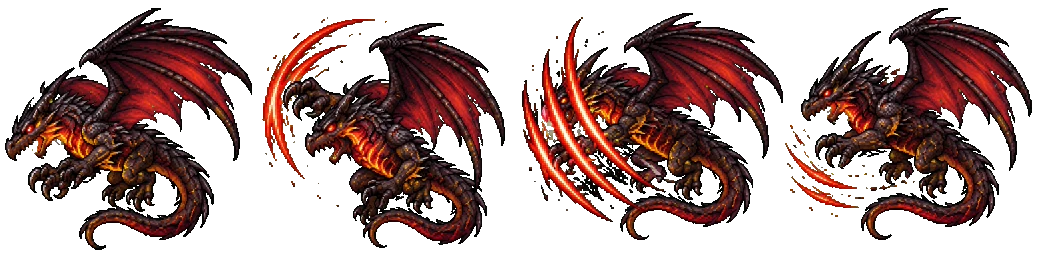
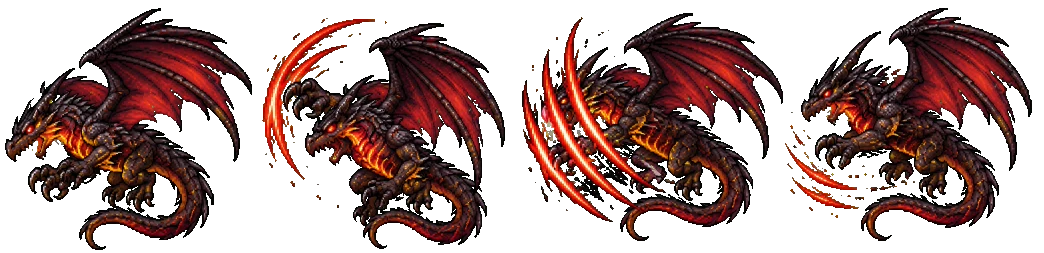
fix(v2cap): 黒龍ヴァルゼノクの待機の体の揺れを止めて力強い羽ばたきに（脚と尾で各コマをそろえる・振り下ろしは短く上げきりと下ろしきりは長く）・ボス戦のHPバーの高さをそろえて自分の絵を小さく・絵の道具を8コマ（4列×2段）と技の絵の大きさ合わせに対応（ユーザー指示「羽動かすときに体も揺れすぎ、ゴムみたいになってる」「画像がずれてる、HPバー合わせて」「プレイヤー側の画像はもう少し小さくていい」→選んだこと：エフェクトはChatGPTで別に・飛ぶ絵＋当たる絵・竜は効果なしで描き直す・待機は翼だけ・待機も技も8コマ・プロンプトは制作帳・SQL不要）

diff --git a/src/v2cap/lib/bossArt.js b/src/v2cap/lib/bossArt.js
@@ -6,48 +6,71 @@
 //   ＋技の案「この技の案で絵を作り始める」（黒爪・焦熱の吐息・黒翼烈風・終焉の黒焔）→ ユーザーが ChatGPT で作って置いた。
 //   元の絵（ユーザーが置く・git に入れない）：public/エネミー/IDダンジョン/<フォルダ>/
 //     イラスト.png … 遭遇のイラスト（透明な背景）
-//     待機.png     … 3列×2段の6コマ・ずっと羽ばたく（⑥のあと①へつながる）・真緑の背景・左向き
-//     <技の名前>.png … 3列×2段の6コマ（①待機 → ②〜⑤技 → ⑥待機）・攻撃は左へ
+//     待機.png     … 2段に並べたコマ・ずっと羽ばたく（最後のあと①へつながる）・真緑の背景・左向き
+//     <技の名前>.png … 2段に並べたコマ（①待機 → 技 → 最後は待機に戻る）・攻撃は左へ
+//     ★コマの数：はじめは3列×2段の6コマ。2026-10-28 ユーザー「もっと滑らかに動いてほしい」→選んだ「待機も技も8コマ」＝4列×2段。
+//       道具は列の数を絵から数える（6コマでも8コマでも読める）
 //   画面で使う版（tools/v2cap-boss-art.mjs が作る）：public/v2cap-art/boss/<key>-<動き>.webp
-//     idle  … 待機の6コマをくり返す動くWebP（<img> だけで羽ばたく）。大きさ base×base
-//     <技>  … ②〜⑤のコマを横に並べた1枚（クラスの攻撃の絵と同じ形・lib/motionArt.js）。
+//     idle  … 待機のコマをくり返す動くWebP（<img> だけで羽ばたく）。大きさ base×base。1コマの長さはコマごと（idleMs）
+//     <技>  … 最初と最後を除いたコマ（6コマなら②〜⑤・8コマなら②〜⑦）を横に並べた1枚（クラスの攻撃の絵と同じ形・lib/motionArt.js）。
 //              ox・oy は待機の枠の左上が1コマの中のどこにあるか（はみ出す炎や爆発のぶん）
 //     illust … 遭遇のイラスト（正方形）
 //   一覧（コマの数・大きさ・速さ）は bossArtList.js（道具が書く・手で直さない）
-// ★コマの位置は元の絵のマス（512×512）の中の位置のまま使う＝ChatGPT がどのマスにも同じ位置に描いていて、
-//   羽ばたきに合わせた上下の揺れもそのまま残る（2026-10-28 6枚で測った：どのマスも体は x20〜515・y5〜495）
+// ★コマの位置は元の絵のマスの中の位置で使う。待機は体の動かない場所（idleAnchor）で①にそろえる
+//   （2026-10-28 ユーザー「羽動かすときに体も揺れすぎ、ゴムみたいになってる」）。技の絵は①の竜の大きさと位置を待機の①に合わせる
+//   （1枚ずつ別に作るので、竜の大きさや位置が少しずつ違う）
 // ============================================================
 import { BOSS_ART } from './bossArtList.js'
 
 export const BOSS_ART_SRC_DIR = 'IDダンジョン'   // public/エネミー の下（ENEMY_ART_SRC_DIR）・元の絵。敵の絵の道具はここを読まない
 export const BOSS_ART_DIR = '/v2cap-art/boss'
-export const BOSS_SHEET_COLS = 3
+export const BOSS_SHEET_COLS = [3, 4]   // 3列（6コマ）か4列（8コマ）
 export const BOSS_SHEET_ROWS = 2
 export const BOSS_ILLUST_SIZE = 768
 
 // ボスごとの決まり。dir＝元の絵のフォルダ（ユーザーが付けた名前）
-//   motions … 技の元の絵の名前 → キー・1コマの長さ（②〜⑤・ミリ秒）。当たるのはどれも④（3つ目のコマ）
+//   idleMs  … 待機のコマの数 → 1コマずつの長さ（ミリ秒）
+//   motions … 技の元の絵の名前 → キー・流すコマの数 → 1コマずつの長さ（ミリ秒）。当たるコマは BOSS_HIT_OF
 export const BOSS_DEFS = {
   varuzenoku: {
     name: '黒龍ヴァルゼノク', dir: 'ヴォルザノク',
-    idleMs: 130,
+    // 【確定】2026-10-28 ユーザー「体も揺れすぎ、ゴムみたい」「今よりもう少し力強く羽ばたいてほしい」：
+    //   振り下ろすコマは短く（ぐっと叩きつける）、上げきり・下ろしきりは少し長く見せる（1回約0.8〜0.9秒・前は130ミリ秒ずつ）
+    //   6コマ＝①上げきり ②③振り下ろし ④下ろしきり ⑤⑥振り上げ／8コマ＝①上げきり ②③④振り下ろし ⑤下ろしきり ⑥⑦⑧振り上げ
+    idleMs: { 6: [200, 90, 90, 170, 130, 130], 8: [200, 70, 70, 80, 170, 110, 110, 110] },
+    // 待機のコマをそろえる、体の動かない場所（マスの中の割合）＝脚と尾（翼は上と右・頭は羽ばたきで上下する）
+    idleAnchor: { x0: 0, x1: 0.7, y0: 0.55, y1: 1 },
     noGreen: true,   // 緑の無い竜。背景の緑が映り込んだ煙・風を緑の無い色にする（2026-10-28 黒翼烈風・終焉の黒焔の煙が緑がかっていた）
     motions: [
-      { file: '黒爪', key: 'claw', ms: [110, 110, 200, 140] },
-      { file: '焦熱の吐息', key: 'breath', ms: [160, 200, 320, 220] },
-      { file: '黒翼烈風', key: 'gale', ms: [150, 180, 300, 220] },
-      { file: '終焉の黒焔', key: 'doom', ms: [220, 320, 420, 320] },
+      // 8コマの流れ（制作帳のプロンプト）：②③振りかぶる・ためる → ④振り下ろし途中 → ⑤いちばん前（当たる・撃ち出す）→ ⑥余韻 → ⑦戻る
+      { file: '黒爪', key: 'claw', ms: { 4: [110, 110, 200, 140], 6: [100, 100, 60, 160, 120, 100] } },
+      { file: '焦熱の吐息', key: 'breath', ms: { 4: [160, 200, 320, 220], 6: [150, 200, 90, 200, 200, 120] } },
+      { file: '黒翼烈風', key: 'gale', ms: { 4: [150, 180, 300, 220], 6: [140, 200, 70, 180, 160, 120] } },
+      { file: '終焉の黒焔', key: 'doom', ms: { 4: [220, 320, 420, 320], 6: [200, 240, 320, 120, 240, 160] } },
+    ],
+    // エフェクト（2026-10-28 ユーザー「エフェクトは別に作って、しっかり敵（プレイヤー）に当たってるように見せたい」→選んだ
+    //   「ChatGPT のドット絵」「飛ぶ絵＋当たる絵」）。3列×2段の6コマ。飛ぶ＝同じ場所でゆらめくくり返し（画面で相手まで動かす）・
+    //   当たる＝相手の上で1回。★画面に入れるのは絵が届いてから（いまは名前だけ＝道具が「使わない絵」と言わないため）
+    effects: [
+      { file: '黒爪_当たる', motion: 'claw', kind: 'hit' },
+      { file: '焦熱の吐息_飛ぶ', motion: 'breath', kind: 'fly' },
+      { file: '焦熱の吐息_当たる', motion: 'breath', kind: 'hit' },
+      { file: '黒翼烈風_飛ぶ', motion: 'gale', kind: 'fly' },
+      { file: '黒翼烈風_当たる', motion: 'gale', kind: 'hit' },
+      { file: '終焉の黒焔_飛ぶ', motion: 'doom', kind: 'fly' },
+      { file: '終焉の黒焔_当たる', motion: 'doom', kind: 'hit' },
     ],
   },
 }
-export const BOSS_HIT_FRAME = 2
+// 当たる（撃ち出す）コマ（流すコマの中で0から）。6コマの絵は④＝2・8コマの絵は⑤＝3
+export const BOSS_HIT_OF = { 4: 2, 6: 3 }
 export const bossKeyOfName = (name) => Object.keys(BOSS_DEFS).find(k => BOSS_DEFS[k].name === name) || null
 
 export const bossFileOf = (key, kind) => `${key}-${kind}.webp`
 export const bossSrcOf = (key, kind) => `${BOSS_ART_DIR}/${bossFileOf(key, kind)}`
 
 // 画面で使う形（無ければ null）
-//   { name, base, idle:{ src, frames, ms }, illust, motions:{ <key>: lib/motionArt.js の motionOf と同じ形＋label } }
+//   { name, base, idle:{ src, frames, ms:[…] }, illust, motions:{ <key>: lib/motionArt.js の motionOf と同じ形＋label } }
 export const bossArtOf = (key) => {
   const def = BOSS_DEFS[key], art = BOSS_ART[key]
   if (!def || !art?.idle) return null

diff --git a/src/v2cap/components/V2capAtbStage.jsx b/src/v2cap/components/V2capAtbStage.jsx
@@ -16,6 +16,8 @@ import { motionFrameAt, IDLE_SIZE } from '../lib/motionArt.js'
 //     待機GIFと同じ大きさ・足の位置にそろえてあるので、待機の枠（正方形）に重ねて、はみ出すぶん（斬撃）は枠の外へ出す
 //   ・ダンジョンのボス（lib/bossArt.js・2026-10-28 黒龍ヴァルゼノク）：待機はずっと羽ばたく動くWebP、技ごとに違う攻撃の絵。
 //     どの絵を流すかは act に付けた motion（試し撃ちの画面が決める）。絵が大きいので枠も大きくする（big）
+//     【確定】2026-10-28 ユーザー「画像がずれてる、HPバー合わせて」「プレイヤー側の画像はもう少し小さくていい」：
+//     ボスのときは両方の絵の枠を同じ高さにして（HPバーが同じ高さに並ぶ）、自分の絵は枠の PLAYER_VS_BOSS 倍に縮めて下にそろえる
 // ============================================================
 
 const Bar = ({ pct, color, h = 10 }) => (
@@ -46,11 +48,15 @@ const Chips = ({ st, side, right }) => {
   )
 }
 
+const ART_H = 'clamp(110px, 30vw, 170px)'
+const ART_H_BIG = 'clamp(140px, 40vw, 230px)'
+export const PLAYER_VS_BOSS = 0.62
+
 const POP_COLOR = { hit: '#ffffff', miss: '#9fb3c8', heal: '#44ff88', tick: '#cc99ff' }
 const popText = (f) => (f.kind === 'miss' ? 'MISS' : f.kind === 'heal' ? `+${f.amount.toLocaleString()}` : f.amount.toLocaleString())
 
 // 1人ぶん。right＝右（モンスター）。fx は [{ kind, side, amount, crit, t0 }]・now は fx の t0 と同じ時計（秒）
-function Fighter({ st, side, me, right, src, motion, fx, now, name, big }) {
+function Fighter({ st, side, me, right, src, motion, fx, now, name, big, artH = ART_H, scale = 1 }) {
   const mine = fx.filter(f => f.side === side)
   const lastOf = (kind) => mine.reduce((t, f) => (f.kind === kind && f.t0 <= now && f.t0 > t ? f.t0 : t), -1e9)
   const dir = right ? -1 : 1   // 前＝相手の方
@@ -79,8 +85,8 @@ function Fighter({ st, side, me, right, src, motion, fx, now, name, big }) {
         <span style={{ overflow:'hidden', textOverflow:'ellipsis', whiteSpace:'nowrap' }}>{name}</span>
       </div>
       {/* 絵 */}
-      <div style={{ position:'relative', height: big ? 'clamp(140px, 40vw, 230px)' : 'clamp(110px, 30vw, 170px)', display:'flex', justifyContent:'center', alignItems:'flex-end', margin:'4px 0' }}>
-        <div style={{ height:'100%', display:'flex', alignItems:'flex-end', transform:`translateX(${dx.toFixed(1)}px)`,
+      <div style={{ position:'relative', height: artH, display:'flex', justifyContent:'center', alignItems:'flex-end', margin:'4px 0' }}>
+        <div style={{ height:`${scale * 100}%`, display:'flex', alignItems:'flex-end', transform:`translateX(${dx.toFixed(1)}px)`,
           opacity: down ? 0.25 : 1, transition:'opacity 0.4s' }}>
           {src ? (
             // 待機の絵の枠（正方形）。攻撃の絵はこの枠に重ねる（ox・oy・w・h は待機の枠（クラスは 224px・ボスは base）を100%として割合で置く）
@@ -143,8 +149,9 @@ export default function V2capAtbStage({ st, fx, now, playerSrc, playerMotion, fo
   return (
     <div style={{ display:'flex', gap:'12px', alignItems:'flex-start', padding:'8px',
       background:'linear-gradient(180deg, #000a26 0%, #001338 70%, #00204a 100%)', border:'1px solid #0a2a55' }}>
-      <Fighter st={st} side="a" me={st.a} src={playerSrc} motion={playerMotion} fx={fx} now={now} name={st.a.name} />
-      <Fighter st={st} side="b" me={st.b} right src={foeSrc} fx={fx} now={now} name={st.b.name} big={foeBig} />
+      <Fighter st={st} side="a" me={st.a} src={playerSrc} motion={playerMotion} fx={fx} now={now} name={st.a.name}
+        artH={foeBig ? ART_H_BIG : ART_H} scale={foeBig ? PLAYER_VS_BOSS : 1} />
+      <Fighter st={st} side="b" me={st.b} right src={foeSrc} fx={fx} now={now} name={st.b.name} big={foeBig} artH={foeBig ? ART_H_BIG : ART_H} />
     </div>
   )
 }

diff --git a/src/v2cap/lib/bossArtList.js b/src/v2cap/lib/bossArtList.js
@@ -1,15 +1,15 @@
 // tools/v2cap-boss-art.mjs が書くファイル（手で直さない）。ボス → 待機の枠・待機・技ごとのコマ
-//   base … 待機の枠の大きさ（正方形・px）／idle … 待機のコマの数と1コマの長さ（ミリ秒）／illust … 遭遇のイラストがあるか
+//   base … 待機の枠の大きさ（正方形・px）／idle … 待機のコマの数と1コマずつの長さ（ミリ秒）／illust … 遭遇のイラストがあるか
 //   motions … 技のキー → コマの数・1コマの大きさ（w・h）・待機の枠の左上が1コマの中のどこにあるか（ox・oy）・1コマの長さ・当たるコマ（0から）
 export const BOSS_ART = {
   varuzenoku: {
     base: 253, illust: true,
-    idle: { frames: 6, ms: 130 },
+    idle: { frames: 6, ms: [200, 90, 90, 170, 130, 130] },
     motions: {
-      claw: { frames: 4, w: 261, h: 253, ox: 3, oy: 0, ms: [110, 110, 200, 140], hit: 2 },
-      breath: { frames: 4, w: 301, h: 253, ox: 7, oy: 0, ms: [160, 200, 320, 220], hit: 2 },
-      gale: { frames: 4, w: 267, h: 253, ox: 6, oy: 0, ms: [150, 180, 300, 220], hit: 2 },
-      doom: { frames: 4, w: 279, h: 257, ox: 7, oy: 0, ms: [220, 320, 420, 320], hit: 2 },
+      claw: { frames: 4, w: 261, h: 253, ox: 2, oy: 0, ms: [110, 110, 200, 140], hit: 2 },
+      breath: { frames: 4, w: 301, h: 253, ox: 6, oy: 0, ms: [160, 200, 320, 220], hit: 2 },
+      gale: { frames: 4, w: 268, h: 253, ox: 6, oy: 0, ms: [150, 180, 300, 220], hit: 2 },
+      doom: { frames: 4, w: 279, h: 258, ox: 6, oy: 0, ms: [220, 320, 420, 320], hit: 2 },
     },
   },
 }
